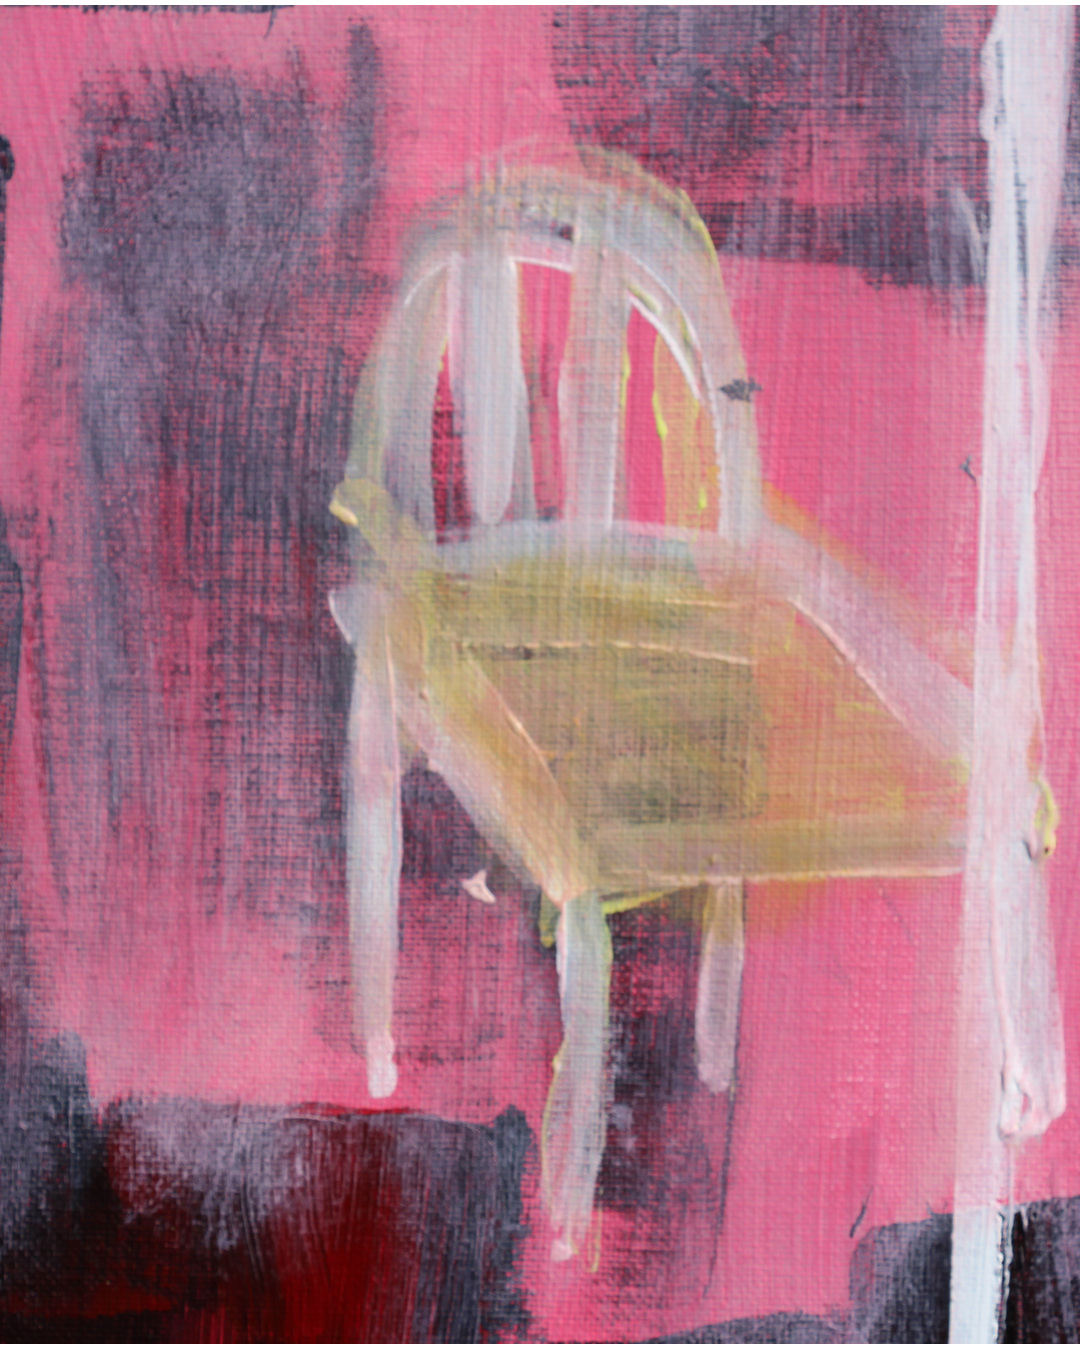
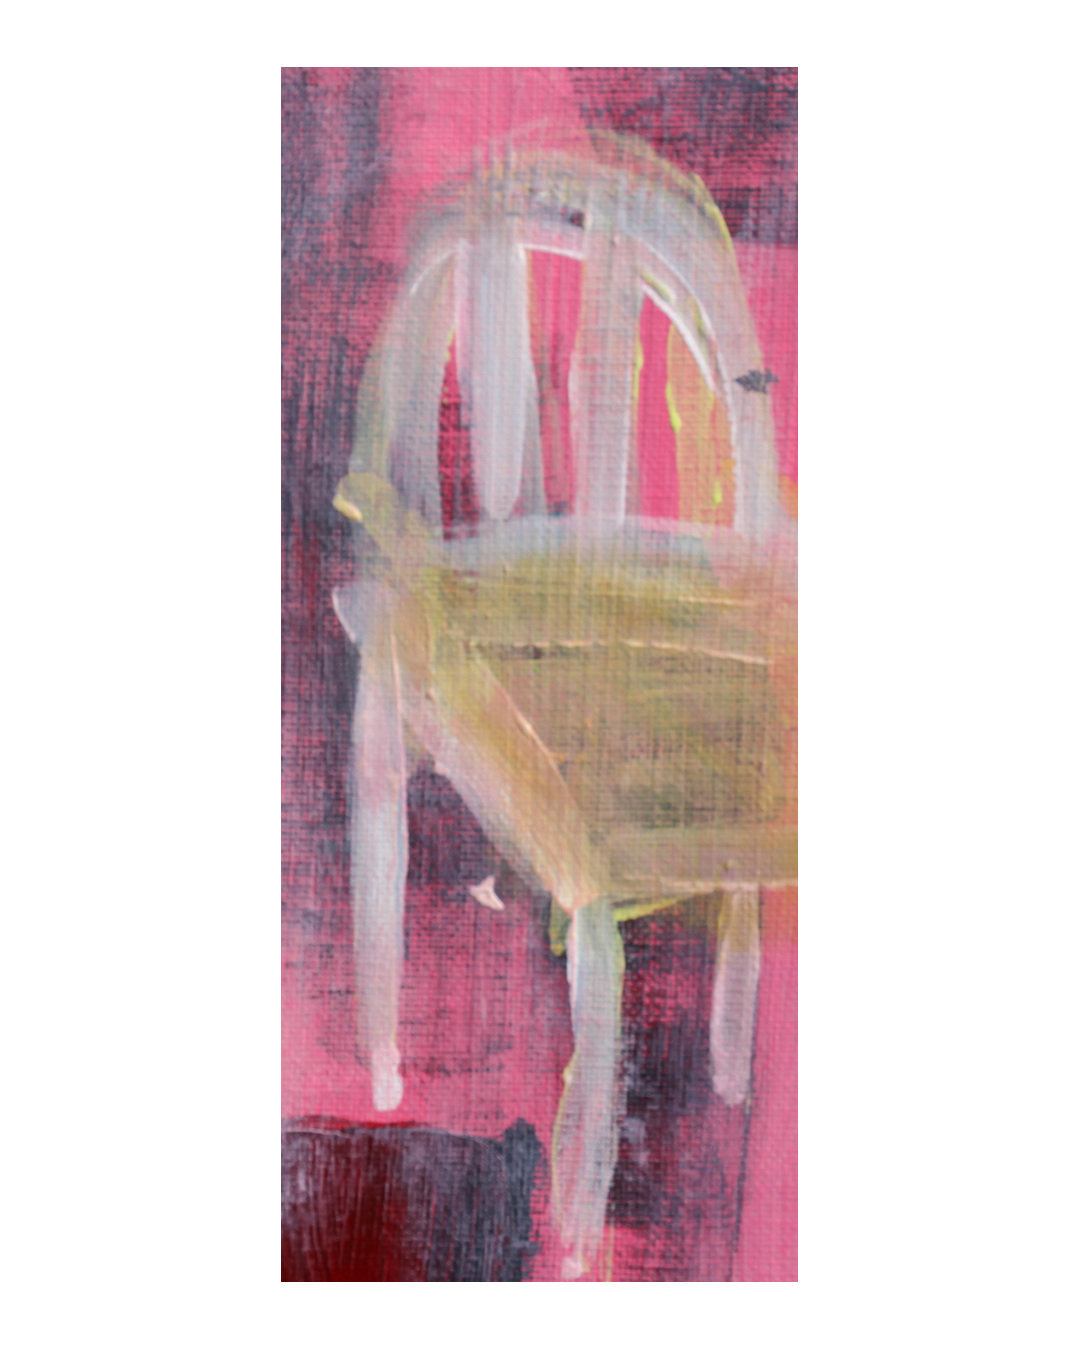
Furniture carousels: object alone, centred, 5% white margin
boxcrop.py now crops exactly the object's box and centres it on white instead
of widening the frame into the scene. Boxes measured on fine grids. Stool
dropped from tables and beds.

Claude-Session: https://claude.ai/code/session_01818rEvC39naxms7xmH6MCc

diff --git a/tools/boxcrop.py b/tools/boxcrop.py
@@ -1,30 +1,24 @@
-"""Crop so a whole object (normalized box) is visible in a 1080x1350 frame."""
+"""Show one object whole and centred: crop its box, fit it in 1080x1350 with a 5% white margin."""
 import json, os, sys
 from PIL import Image, ImageOps
 Image.MAX_IMAGE_PIXELS = None
 ROOTS = {"details": "/home/user/yigitozen-painting-details", "details2": "/home/user/yigitozen-painting-details-2",
          "yigit": "/home/user/yigit"}
-OW, OH, M = 1080, 1350, 0.06
+OW, OH, M = 1080, 1350, 0.05   # the object fills the frame up to a 5% white margin
 
 def render(src, box, out):
+    """Crop exactly the object's box and centre it on white; nothing around it."""
     repo, path = src.split(":", 1)
     im = ImageOps.exif_transpose(Image.open(os.path.join(ROOTS[repo], path))).convert("RGB")
     W, H = im.size
-    x0, y0, x1, y1 = box[0] * W, box[1] * H, box[2] * W, box[3] * H
-    bw, bh = (x1 - x0) * (1 + 2 * M), (y1 - y0) * (1 + 2 * M)
-    cx, cy = (x0 + x1) / 2, (y0 + y1) / 2
-    ww = max(bw, bh * OW / OH); wh = ww * OH / OW
-    left = min(max(cx - ww / 2, 0), max(W - ww, 0)); top = min(max(cy - wh / 2, 0), max(H - wh, 0))
-    if ww > W or wh > H:   # does not fit inside the image: white around it
-        s = min(OW / ww, OH / wh)
-        frame = Image.new("RGB", (OW, OH), "white")
-        part = im.crop((max(left, 0), max(top, 0), min(left + ww, W), min(top + wh, H)))
-        part = part.resize((round(part.width * s), round(part.height * s)), Image.LANCZOS)
-        frame.paste(part, ((OW - part.width) // 2, (OH - part.height) // 2))
-    else:
-        frame = im.resize((OW, OH), Image.LANCZOS, box=(left, top, left + ww, top + wh))
+    crop = im.crop((round(box[0] * W), round(box[1] * H), round(box[2] * W), round(box[3] * H)))
+    aw, ah = OW * (1 - 2 * M), OH * (1 - 2 * M)
+    k = min(aw / crop.width, ah / crop.height)
+    crop = crop.resize((round(crop.width * k), round(crop.height * k)), Image.LANCZOS)
+    frame = Image.new("RGB", (OW, OH), "white")
+    frame.paste(crop, ((OW - crop.width) // 2, (OH - crop.height) // 2))
     frame.save(out, quality=94, subsampling=0)
-    return OW / ww   # >1 means enlarged
+    return k   # >1 means enlarged
 
 if __name__ == "__main__":
     spec = json.load(open(sys.argv[1]))

diff --git a/posts/editorial/README.md b/posts/editorial/README.md
@@ -1,14 +1,14 @@
 # Editoryel carousel'ler
 
 Farklı resimlerden alınmış, aynı temayı (konu, renk ya da biçim) taşıyan yakın detaylar.
-Her sayfa 1080×1350, yazısız, doğrudan detay fotoğraflarından kırpıldı. Caption: tek
+Her sayfa 1080×1350, yazısız. Obje tek başına, ortalı, kesilmeden, %5 beyaz payla (`tools/boxcrop.py`); obje detay fotoğrafında bütün varsa ondan, yoksa ana resimden kırpılır. Caption: tek
 kelimelik tema ve sayfa sırasıyla eser adları. Üretim: `python3 tools/render.py <klasör>/spec.json`.
 
 | klasör | tema | sayfa |
 | --- | --- | --- |
 | `crossed-eyes/` | çarpı gözler | 6 (guarding, good people, 7 fam, wings of abyss, victim, baby rights) |
 | `chairs/` | sandalyeler | 6: guarding (ters sandalye), mandarin (ters sandalye), victim (beyaz sandalye), Virgil, sept neuf (koltuk), guarding (ayaklık) |
-| `tables/` | masa, küçük masa, yatak | 5: walls (masa), sept neuf (sehpa), crow (divan), caprocorn (tabure, sandık) |
+| `tables/` | masa, küçük masa, yatak | 4: walls (masa), sept neuf (sehpa), crow (divan), caprocorn (sandık) |
 | `birds/` | kuşlar | 9 (sept neuf, wings of abyss: üç gaga, crow: iki detay, mandarin: üç kuş) |
 
 Önerilen sonraki temalar: gözler, dişler ve ağızlar, eller, ayaklar ve pençeler, beden
